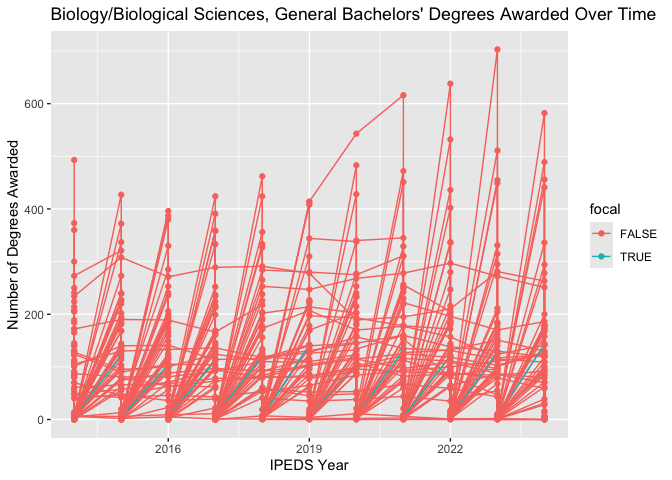
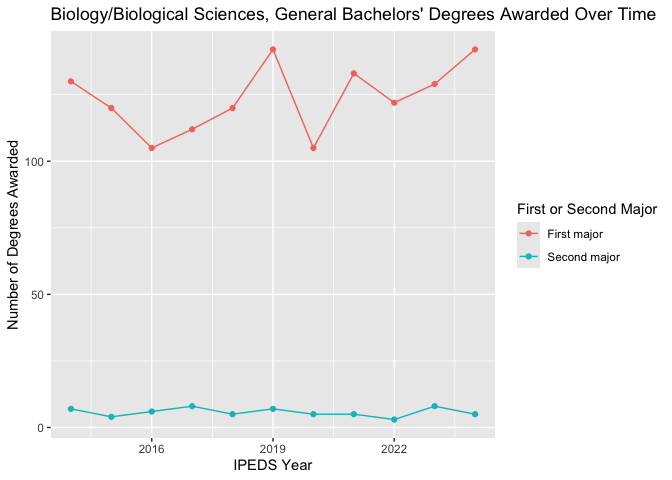
distinguishing majors for plot

diff --git a/README.md b/README.md
@@ -226,8 +226,8 @@ library(dplyr)
 #> The following objects are masked from 'package:base':
 #> 
 #>     intersect, setdiff, setequal, union
-bio_degrees <- completions |> dplyr::filter(Classification=="Biology/Biological Sciences, General", Degree=="Bachelors")
-g <- ggplot(bio_degrees, aes(x=`IPEDS Year`, y=`Grand total`, color=focal, group=Institution)) +
+bio_degrees <- completions |> dplyr::filter(Classification=="Biology/Biological Sciences, General", Degree=="Bachelors", focal==TRUE)
+g <- ggplot(bio_degrees, aes(x=`IPEDS Year`, y=`Grand total`, color=`First or Second Major`)) +
   geom_line() +
   geom_point() +
   labs(title="Biology/Biological Sciences, General Bachelors' Degrees Awarded Over Time",
